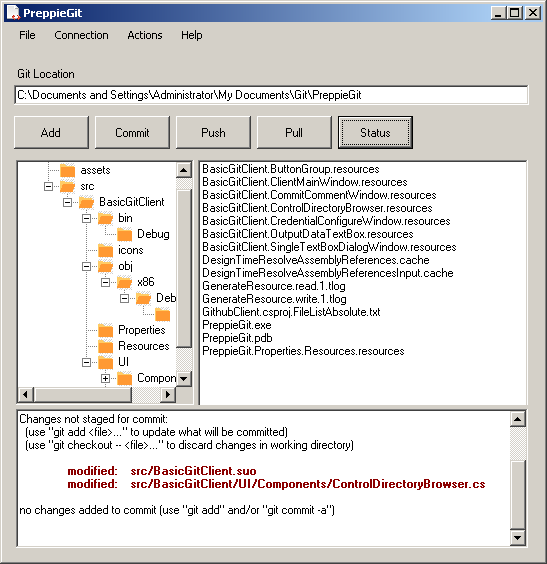
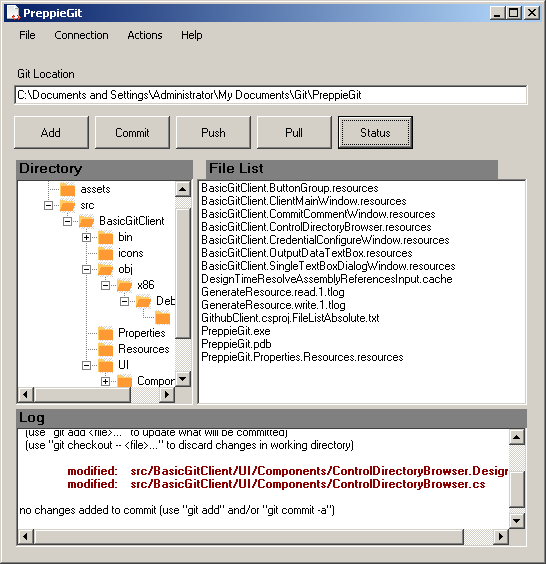
UI update with labels in prep for listview

diff --git a/src/BasicGitClient/UI/Components/ControlDirectoryBrowser.Designer.cs b/src/BasicGitClient/UI/Components/ControlDirectoryBrowser.Designer.cs
@@ -48,6 +48,8 @@
             this.deleteFileToolStripMenuItem = new System.Windows.Forms.ToolStripMenuItem();
             this.toolStripSeparator2 = new System.Windows.Forms.ToolStripSeparator();
             this.openInExplorerToolStripMenuItem1 = new System.Windows.Forms.ToolStripMenuItem();
+            this.lblDirectoryList = new System.Windows.Forms.Label();
+            this.lblFileList = new System.Windows.Forms.Label();
             ((System.ComponentModel.ISupportInitialize)(this.splitContainer1)).BeginInit();
             this.splitContainer1.Panel1.SuspendLayout();
             this.splitContainer1.Panel2.SuspendLayout();
@@ -58,18 +60,21 @@
             // 
             // splitContainer1
             // 
-            this.splitContainer1.Dock = System.Windows.Forms.DockStyle.Fill;
-            this.splitContainer1.Location = new System.Drawing.Point(0, 0);
+            this.splitContainer1.Anchor = ((System.Windows.Forms.AnchorStyles)((((System.Windows.Forms.AnchorStyles.Top | System.Windows.Forms.AnchorStyles.Bottom)
+                        | System.Windows.Forms.AnchorStyles.Left)
+                        | System.Windows.Forms.AnchorStyles.Right)));
+            this.splitContainer1.Location = new System.Drawing.Point(0, 19);
             this.splitContainer1.Name = "splitContainer1";
             // 
             // splitContainer1.Panel1
             // 
             this.splitContainer1.Panel1.Controls.Add(this.tvDirectoryList);
+            this.splitContainer1.Panel1.Resize += new System.EventHandler(this.splitContainer1_Panel1_Resize);
             // 
             // splitContainer1.Panel2
             // 
             this.splitContainer1.Panel2.Controls.Add(this.lbFileList);
-            this.splitContainer1.Size = new System.Drawing.Size(150, 150);
+            this.splitContainer1.Size = new System.Drawing.Size(150, 131);
             this.splitContainer1.SplitterDistance = 74;
             this.splitContainer1.TabIndex = 0;
             // 
@@ -82,7 +87,7 @@
             this.tvDirectoryList.Location = new System.Drawing.Point(0, 0);
             this.tvDirectoryList.Name = "tvDirectoryList";
             this.tvDirectoryList.SelectedImageIndex = 0;
-            this.tvDirectoryList.Size = new System.Drawing.Size(74, 150);
+            this.tvDirectoryList.Size = new System.Drawing.Size(74, 131);
             this.tvDirectoryList.TabIndex = 0;
             this.tvDirectoryList.AfterSelect += new System.Windows.Forms.TreeViewEventHandler(this.tvDirectoryList_AfterSelect);
             this.tvDirectoryList.NodeMouseClick += new System.Windows.Forms.TreeNodeMouseClickEventHandler(this.tvDirectoryList_NodeMouseClick);
@@ -152,8 +157,9 @@
             this.lbFileList.IntegralHeight = false;
             this.lbFileList.Location = new System.Drawing.Point(0, 0);
             this.lbFileList.Name = "lbFileList";
-            this.lbFileList.Size = new System.Drawing.Size(72, 150);
+            this.lbFileList.Size = new System.Drawing.Size(72, 131);
             this.lbFileList.TabIndex = 0;
+            this.lbFileList.Resize += new System.EventHandler(this.lbFileList_Resize);
             // 
             // ctxMnuFileBrowser
             // 
@@ -219,12 +225,36 @@
             this.openInExplorerToolStripMenuItem1.Text = "Open In Explorer";
             this.openInExplorerToolStripMenuItem1.Click += new System.EventHandler(this.toolStripFileMenuItem_Click);
             // 
+            // lblDirectoryList
+            // 
+            this.lblDirectoryList.BackColor = System.Drawing.SystemColors.ButtonShadow;
+            this.lblDirectoryList.Font = new System.Drawing.Font("Microsoft Sans Serif", 9.75F, System.Drawing.FontStyle.Bold, System.Drawing.GraphicsUnit.Point, ((byte)(0)));
+            this.lblDirectoryList.Location = new System.Drawing.Point(0, 0);
+            this.lblDirectoryList.Name = "lblDirectoryList";
+            this.lblDirectoryList.Size = new System.Drawing.Size(74, 19);
+            this.lblDirectoryList.TabIndex = 2;
+            this.lblDirectoryList.Text = "Directory";
+            // 
+            // lblFileList
+            // 
+            this.lblFileList.Anchor = System.Windows.Forms.AnchorStyles.None;
+            this.lblFileList.BackColor = System.Drawing.SystemColors.ButtonShadow;
+            this.lblFileList.Font = new System.Drawing.Font("Microsoft Sans Serif", 9.75F, System.Drawing.FontStyle.Bold, System.Drawing.GraphicsUnit.Point, ((byte)(0)));
+            this.lblFileList.Location = new System.Drawing.Point(78, 0);
+            this.lblFileList.Name = "lblFileList";
+            this.lblFileList.Size = new System.Drawing.Size(72, 19);
+            this.lblFileList.TabIndex = 3;
+            this.lblFileList.Text = "File List";
+            // 
             // ControlDirectoryBrowser
             // 
             this.AutoScaleDimensions = new System.Drawing.SizeF(6F, 13F);
             this.AutoScaleMode = System.Windows.Forms.AutoScaleMode.Font;
+            this.Controls.Add(this.lblFileList);
+            this.Controls.Add(this.lblDirectoryList);
             this.Controls.Add(this.splitContainer1);
             this.Name = "ControlDirectoryBrowser";
+            this.Resize += new System.EventHandler(this.ControlDirectoryBrowser_Resize);
             this.splitContainer1.Panel1.ResumeLayout(false);
             this.splitContainer1.Panel2.ResumeLayout(false);
             ((System.ComponentModel.ISupportInitialize)(this.splitContainer1)).EndInit();
@@ -255,5 +285,7 @@
         private System.Windows.Forms.ToolStripMenuItem openInExplorerToolStripMenuItem;
         private System.Windows.Forms.ToolStripSeparator toolStripSeparator2;
         private System.Windows.Forms.ToolStripMenuItem openInExplorerToolStripMenuItem1;
+        private System.Windows.Forms.Label lblDirectoryList;
+        private System.Windows.Forms.Label lblFileList;
     }
 }

diff --git a/src/BasicGitClient/UI/Components/ControlDirectoryBrowser.cs b/src/BasicGitClient/UI/Components/ControlDirectoryBrowser.cs
@@ -334,5 +334,21 @@ namespace BasicGitClient
 
         #endregion
 
+        private void ControlDirectoryBrowser_Resize(object sender, EventArgs e)
+        {
+            //label1.Width = splitContainer1.Panel1.Width;
+        }
+
+        private void splitContainer1_Panel1_Resize(object sender, EventArgs e)
+        {
+            lblDirectoryList.Width = splitContainer1.Panel1.Width;
+        }
+
+        private void lbFileList_Resize(object sender, EventArgs e)
+        {
+            lblFileList.Location = new Point(splitContainer1.SplitterDistance + 4, lblFileList.Location.Y);
+            lblFileList.Width = splitContainer1.Panel2.Width;
+        }
+
     } // end class
 } // end namespace
